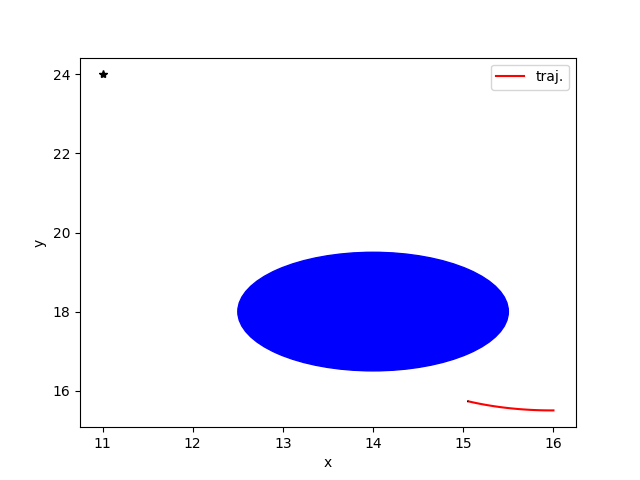
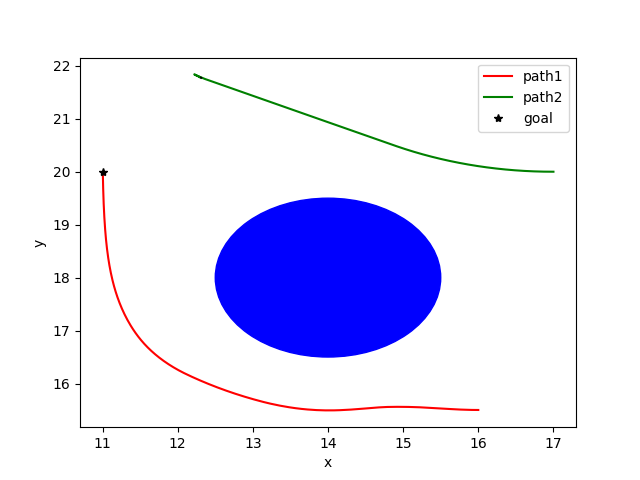
cleaning, start two mpc

diff --git a/code/single_mpc.py b/code/single_mpc.py
@@ -25,23 +25,36 @@ def affinize(f, s, u):
     c = f(s, u) - A @ s - B @ u
     return A, B, c
 
+class Circle:
+    def __init__(self, x, y, rad):
+        self.center = jnp.array([x, y])
+        self.rad = rad
+
 class MPC:
-    def __init__(self, xlim, ulim, args):
-        self.ro, self.ri = xlim # track limits
-        self.vmax, self.pmax = ulim # control limits
-        self.n, self.m, self.N, self.s_goal, self.L = args
-        self.eps = 1e-1
+    def __init__(self, P, Q, R, N, s_goal, eps = 1e-1):
+        self.P = P
+        self.Q = Q
+        self.R = R
+        self.N = N
+        self.s_goal = s_goal
+
+        self.eps = eps # tolerance for stopping criterion
 
     def set_time(self, T, dt):
-        self.sim_steps = int(T / dt)
+        self.T = T
         self.dt = dt
 
-    def PQR(self, PQR):
-        self.P, self.Q, self.R = PQR
+    def set_dynamics(self, vm, pm, L):
+        self.vm = vm
+        self.pm = pm
+        self.L = L
+
+    def track_circle(self, x, y, rad):
+        self.circle = Circle(x, y, rad)
 
     def dynamics(self, s, u):
         """
-        Compute discrete non-linear dynamics given state and control. To be used in inner loop cvxpy optimizations.
+        Computes discrete non-linear dynamics for a simple car model.
         Inputs:
             s : state optimization variable [x, y, theta]
             u : control optimization variable [v, phi]
@@ -60,99 +73,144 @@ class MPC:
         return s_next
     
     def inner_boundary(self, s):
-        """Computes d(s) representing the inner track boundary with three composite shapes"""
-        circ_rad = 1.5
-
-        center_cir = jnp.array([14, 18]) # xy
+        """
+        Computes distance to inner track boundary.
+        Inputs:
+            s : vehicle state [x, y, theta]
+        """
 
         ds = jnp.array([
-            jnp.linalg.norm(s[:2] - center_cir) - circ_rad - self.L/2
+            jnp.linalg.norm(s[:2] - self.circle.center) - self.circle.rad - self.L/2
         ])
-
-        # center_blk = jnp.array([self.ri, self.ri - circ_rad])/2
-        # jnp.linalg.norm(s[:2] - center_blk, ord = jnp.inf) - (self.ri - circ_rad) - tol, 
-        # jnp.linalg.norm(s[:2] - jnp.flip(center_blk), ord = jnp.inf) - (self.ri - circ_rad) - tol
         return ds
     
-    def visualize(self, s, a):
+    def visualize(self, s1, a1, s2, a2):
+        """
+        Visualize executed MPC path with goal and track boundary.
+        """
         fig, ax = plt.subplots()
-        ax.plot(s[:, 0, 0], s[:, 0, 1], 'r', label = "traj.")
-        ax.plot(self.s_goal[0], self.s_goal[1], '*k')
-        ax.plot(s[-1, :, 0], s[-1, :, 1], '--', color = 'k')
-        # for i in np.arange(self.sim_steps):
-        #     plt.plot(s[i, :, 0], s[i, :, 1], '--*')
-        ax.legend()
+
+        # Visualize data
+        ax.plot(s1[:, 0, 0], s1[:, 0, 1], 'r', label = "path1")
+        ax.plot(s2[:, 0, 0], s2[:, 0, 1], 'g', label = "path2")
+        ax.plot(self.s_goal[0], self.s_goal[1], '*k', label = "goal")
+        ax.plot(s1[-1, :, 0], s1[-1, :, 1], '--', color = 'k')
+        ax.plot(s2[-1, :, 0], s2[-1, :, 1], '--', color = 'k')
+        
+        # Format plot
         ax.set_xlabel("x")
         ax.set_ylabel("y")
-        ax.add_patch(plt.Circle((14, 18), 1.5, color = 'b'))
+        ax.add_patch(plt.Circle(np.array(self.circle.center), self.circle.rad, color = 'b'))
+        ax.legend()
+
         fig.savefig("./traj.png")
 
-    def do_mpc(self, s_init):
-        s0 = cp.Parameter(self.n,); s0.value = s_init
+    def scp(self, s_mpc, a_mpc, s0, p = 0.2, Nscp = 5):
+        solve = True
 
-        s_mpc = cp.Variable((self.N+1, self.n)) # mpc variables
-        a_mpc = cp.Variable((self.N, self.m))
+        # --------- Zero Init. ----------
+        s_prev = np.zeros(s_mpc.shape); s_prev[0, :] = s0 # initial position
+        a_prev = np.zeros(a_mpc.shape)
+        for i in np.arange(self.N):
+            s_prev[i+1] = self.dynamics(s_prev[i], a_prev[i]) # initialize a feasible trajectotry
+        # ----------           ----------
+        
+        for _ in np.arange(Nscp):
+            Ad, Bd, cd = affinize(self.dynamics, s_prev[:-1], a_prev) # Dynamics
+            Ad, Bd, cd = np.array(Ad), np.array(Bd), np.array(cd)
 
-        s = np.zeros((self.sim_steps, self.N+1, self.n)) # table for all mpc sims
-        a = np.zeros((self.sim_steps, self.N, self.m))
+            Ab, __, cb = affinize(lambda s, __ : self.inner_boundary(s), s_prev, jnp.concatenate((a_prev, a_prev[-1:]))) # Inner boundary (boundary 1)
+            Ab, cb = np.array(Ab), np.array(cb)
 
-        Nscp = 5
-        p = 0.2
-        for k in np.arange(self.sim_steps): 
-            # --------- Warm Start ----------
-            s_prev = np.zeros((self.N+1, self.n)); s_prev[0, :] = s0.value # initial position
-            a_prev = np.zeros((self.N, self.m)); # a_prev[:, 0] = self.vmax # start moving forward, no turn
-            for i in np.arange(self.N):
-                s_prev[i+1] = self.dynamics(s_prev[i], a_prev[i]) # initialize a feasible trajectotry
-            # ----------           ----------
-            for iter in np.arange(Nscp):
-                Ad, Bd, cd = affinize(self.dynamics, s_prev[:-1], a_prev) # Dynamics
-                Ad, Bd, cd = np.array(Ad), np.array(Bd), np.array(cd)
+            cost = cp.quad_form(s_mpc[-1]-self.s_goal, self.P) + cp.sum([cp.quad_form(s_mpc[i]-self.s_goal, self.Q) + cp.quad_form(a_mpc[i], self.R) for i in np.arange(self.N)])
+            
+            cons = [s_mpc[0] == s0] # IC
+            cons += [cp.abs(a_mpc[:, 0]) <= self.vm] + [cp.abs(a_mpc[:, 1]) <= self.pm] # Control space
+            cons += [s_mpc[i+1] == Ad[i] @ s_mpc[i] + Bd[i] @ a_mpc[i] + cd[i] for i in np.arange(self.N)] # Dynamics
+            cons += [Ab[i] @ s_mpc[i] + cb[i] >= 0 for i in np.arange(self.N+1)] # Track limtis 
+            cons += [cp.norm_inf(s_mpc - s_prev) <= p] + [cp.abs(a_mpc - a_prev) <= np.array([[1, 0.2]])] # Trust regions
 
-                Ab, __, cb = affinize(lambda s, __ : self.inner_boundary(s), s_prev, jnp.concatenate((a_prev, a_prev[-1:]))) # Inner boundary (boundary 1)
-                Ab, cb = np.array(Ab), np.array(cb)
+            prob = cp.Problem(cp.Minimize(cost), cons)
+            prob.solve(solver = cp.ECOS)
 
-                cost = cp.quad_form(s_mpc[-1]-self.s_goal, self.P) + cp.sum([cp.quad_form(s_mpc[i]-self.s_goal, self.Q) + cp.quad_form(a_mpc[i], self.R) for i in np.arange(self.N)])
-                
-                cons = [s_mpc[0] == s0] # IC
-                cons += [cp.abs(s_mpc) <= self.ro] # State space
-                cons += [cp.abs(a_mpc[:, 0]) <= self.vmax] + [cp.abs(a_mpc[:, 1]) <= self.pmax] # Control space
-                cons += [s_mpc[i+1] == Ad[i] @ s_mpc[i] + Bd[i] @ a_mpc[i] + cd[i] for i in np.arange(self.N)] # Dynamics
-                cons += [Ab[i] @ s_mpc[i] + cb[i] >= 0 for i in np.arange(self.N+1)]
-                cons += [cp.norm_inf(s_mpc - s_prev) <= p] + [cp.abs(a_mpc - a_prev) <= np.array([[1, 0.2]])]
+            if prob.status == "optimal" or prob.status == "optimal_inaccurate":
+                s_prev = s_mpc.value
+                a_prev = a_mpc.value
+            else:
+                solve = False
+                break
+        
+        return s_mpc.value, a_mpc.value, solve
 
-                prob = cp.Problem(cp.Minimize(cost), cons)
-                prob.solve(solver = cp.ECOS)
+    def do_mpc(self, s1_init, s2_init):
+        n = self.P.shape[0]
+        m = self.R.shape[0]
+        sim_steps = int(self.T / self.dt)
 
-                if prob.status == "optimal" or prob.status == "optimal_inaccurate":
-                    s_prev = s_mpc.value
-                    a_prev = a_mpc.value
-                else:
-                    self.visualize(s[:k], a[:k])
-                    sys.exit("CVXPY failed at iteration: " + str(k))
-                
-            s[k] = s_mpc.value
-            a[k] = a_mpc.value
+        s01 = cp.Parameter(n,); s01.value = s1_init
+        s02 = cp.Parameter(n,); s02.value = s2_init
 
-            s0.value = np.array(self.dynamics(s0.value, a_mpc.value[0])); print(s0.value)
-            if np.max(np.abs(s0.value - self.s_goal)) < self.eps:
-                s = s[:k]
-                a = a[:k]
+        s_mpc1 = cp.Variable((self.N+1, n)) # mpc variables
+        a_mpc1 = cp.Variable((self.N, m))
+
+        s_mpc2 = cp.Variable((self.N+1, n)) # mpc variables
+        a_mpc2 = cp.Variable((self.N, m))
+
+        s1 = np.zeros((sim_steps, self.N+1, n)) # car 1: table for all mpc sims
+        a1 = np.zeros((sim_steps, self.N, m))
+        s2 = np.zeros(s1.shape) # car 2: table for all mpc sims
+        a2 = np.zeros(a1.shape)
+
+        for k in np.arange(sim_steps): 
+            if np.max(np.abs(s01.value - self.s_goal)) < self.eps and np.max(np.abs(s02.value - self.s_goal)) < self.eps:
+                s1 = s1[:k]
+                a1 = a1[:k]
+                s2 = s2[:k]
+                a2 = a2[:k]
+
                 print("Reached solution!")
                 break
-        self.visualize(s, a)
+
+            s1[k], a1[k], solve1 = self.scp(s_mpc1, a_mpc1, s01.value) # rollout vehicle 1
+            s2[k], a2[k], solve2 = self.scp(s_mpc2, a_mpc2, s02.value) # rollout vehicle 2
+
+            
+            s01.value = np.array(self.dynamics(s01.value, a1[k, 0])) if solve1 else s01.value
+            s02.value = np.array(self.dynamics(s02.value, a2[k, 0])) if solve2 else s02.value
+            
+            if not solve1 or not solve2:
+                print("CVXPY failed: infeasible solution at step " + str(k))
+                break
+            else:
+                print("Vehicle1: ", s01.value, " Vehicle2: ", s02.value)
+        self.visualize(s1, a1, s2, a2)
     
 def main():
-    n, m = 3, 2
-    T, dt = 10, 0.01
-    N, s_goal, L = (30, np.array([11, 20, np.pi/2]), 2)
-    ro, ri = 26, 20
-    vm, pm = 10, np.pi/4
-    mpc = MPC((ro, ri), (vm, pm), (n, m, N, s_goal, L))
-    mpc.PQR((1e3*np.eye(n), np.eye(n), np.eye(m)))
-    mpc.set_time(T, dt)
+    n = 3 # state, control dimension 
+    m = 2
+    P = 1e3*np.eye(n) # cost-to-go approx.
+    Q = np.eye(n) # state stage cost
+    R = np.eye(m) # control stage cost
 
-    mpc.do_mpc(np.array([16, 15.5, np.pi]))
+    N = 30
+    T = 10
+    s_goal = np.array([11, 20, np.pi/2]) 
+    s1_init = np.array([16, 15.5, np.pi])
+    s2_init = np.array([17, 21, np.pi])
+
+    L = 2 # car width (approx. as a circle)
+    vm = 10 # maximum velocity
+    pm = np.pi/4 # maximum steering angle
+    
+    mpc = MPC(P, Q, R, N, s_goal)
+    
+    # Configure optimization
+    mpc.set_time(T, dt = 0.01)
+    mpc.set_dynamics(vm, pm, L)
+    mpc.track_circle(14, 18, 1.5)
+
+    # Execute
+    mpc.do_mpc(s1_init, s2_init)
 
 if __name__ == "__main__":
     main() 
